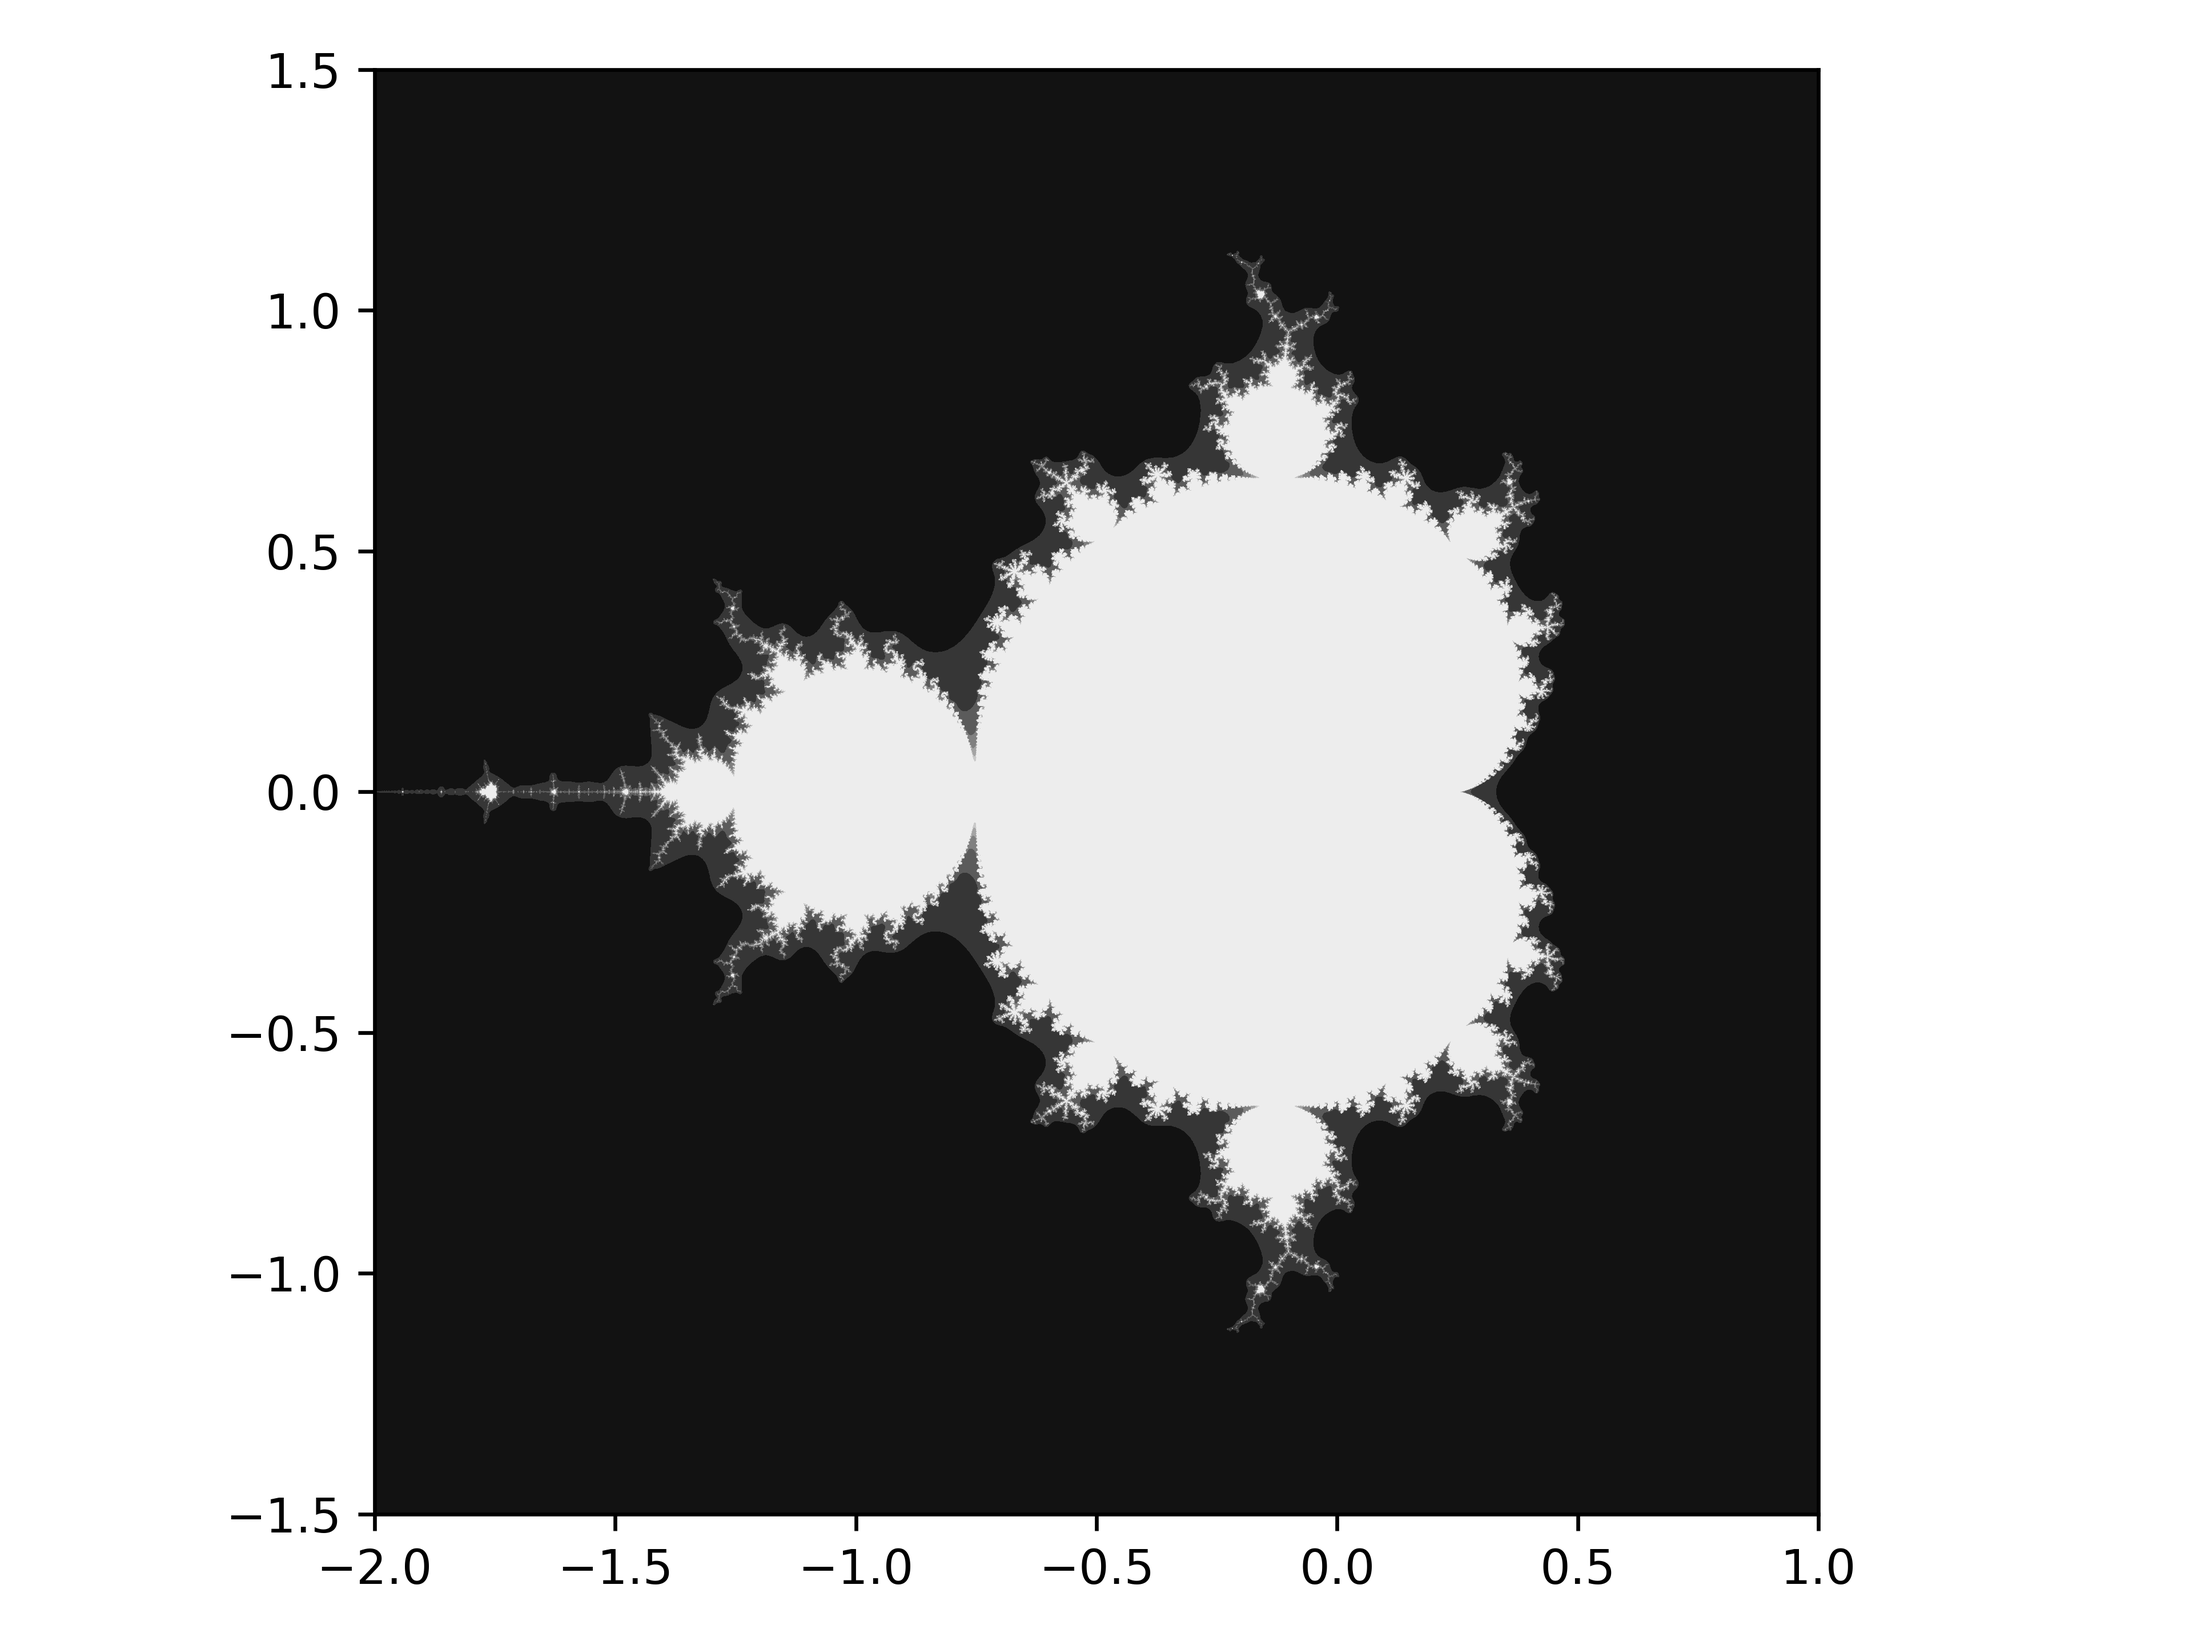
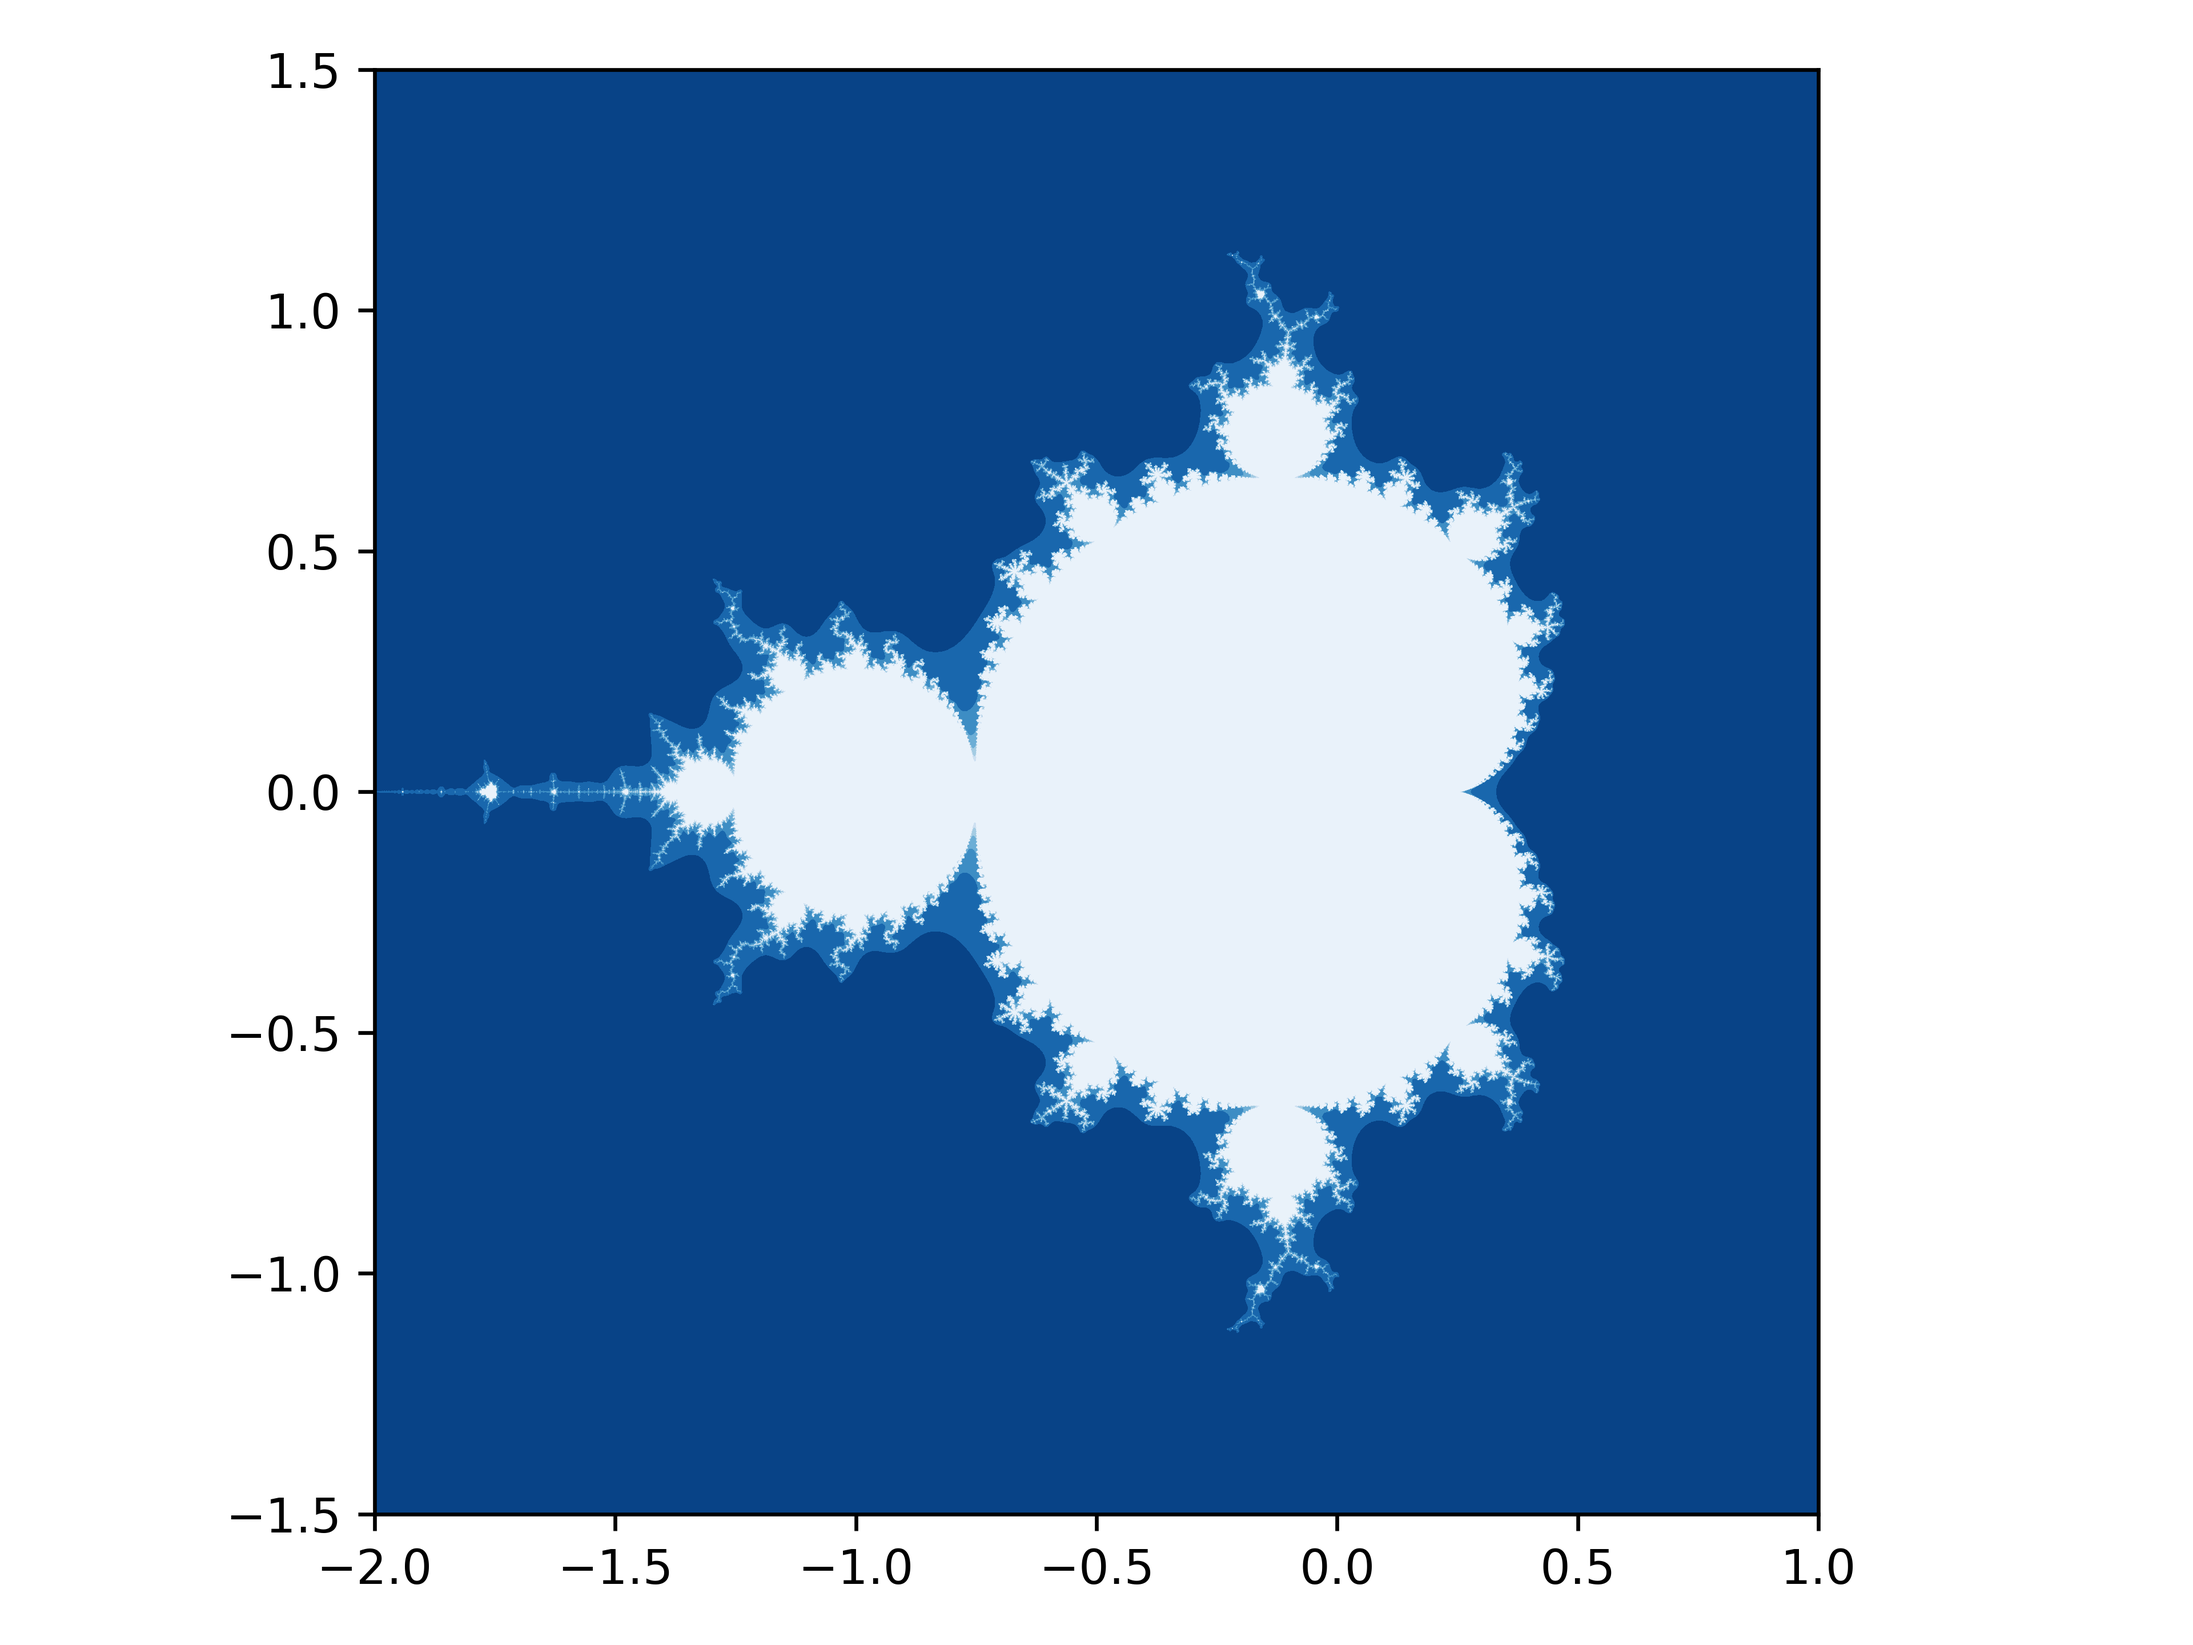
.

diff --git a/MandelbrotSet.py b/MandelbrotSet.py
@@ -36,7 +36,7 @@ def plot_mandelbrot(K    = 4000,
     fig.set_tight_layout(True)
     ax.set_aspect('equal')
 
-    ax.contourf(x, y, mandelbrot, cmap='gray')
+    ax.contourf(x, y, mandelbrot, cmap='Blues_r')
     if save:
         plt.savefig(os.path.join(__file__.split('.')[0], __file__.split('.')[0]+'.png'), dpi=600)
     plt.show()
@@ -60,7 +60,7 @@ def plot_multibrot(K    = 4000,
     mplot = ax.imshow(mandelbrot,
                       extent=(np.min(x), np.max(x), np.min(y), np.max(y)),
                       origin='lower',
-                      cmap='gray')
+                      cmap='Blues_r')
 
     def update(d):
         label = 'timestep {0}'.format(d)
@@ -97,16 +97,16 @@ def plot_mandelbar(K    = 4000,
     fig.set_tight_layout(True)
     ax.set_aspect('equal')
 
-    ax.contourf(x, y, mandelbar, cmap='gray')
+    ax.contourf(x, y, mandelbar, cmap='Blues_r')
     if save:
         plt.savefig(os.path.join(__file__.split('.')[0], 'Mandelbar.png'), dpi=600)
     plt.show()
 
 
 def main():
-    plot_mandelbrot(800, False)
-    #plot_multibrot(800, True)
-    plot_mandelbar(4000, True)
+    #plot_mandelbrot(4000, True)
+    plot_multibrot(800, True)
+    #plot_mandelbar(4000, True)
 
 if __name__=='__main__':
     main()
